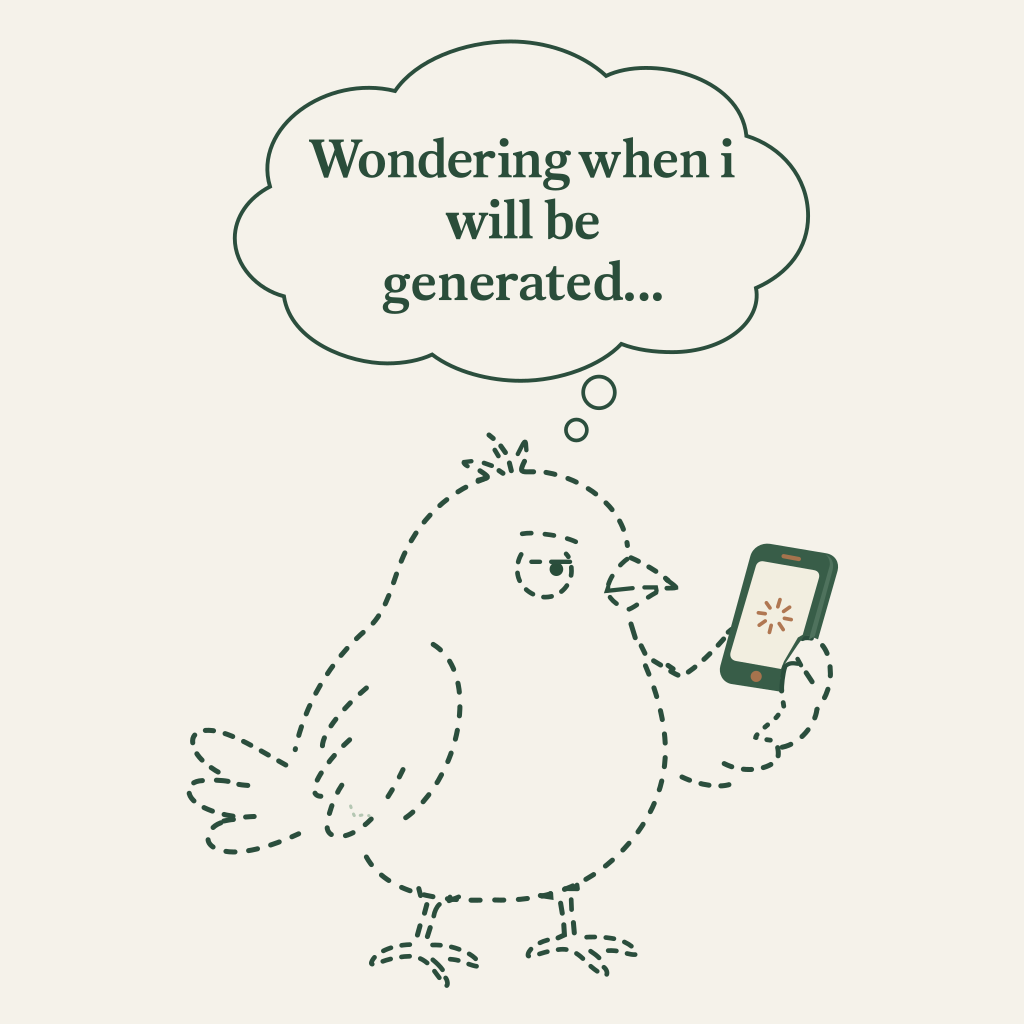
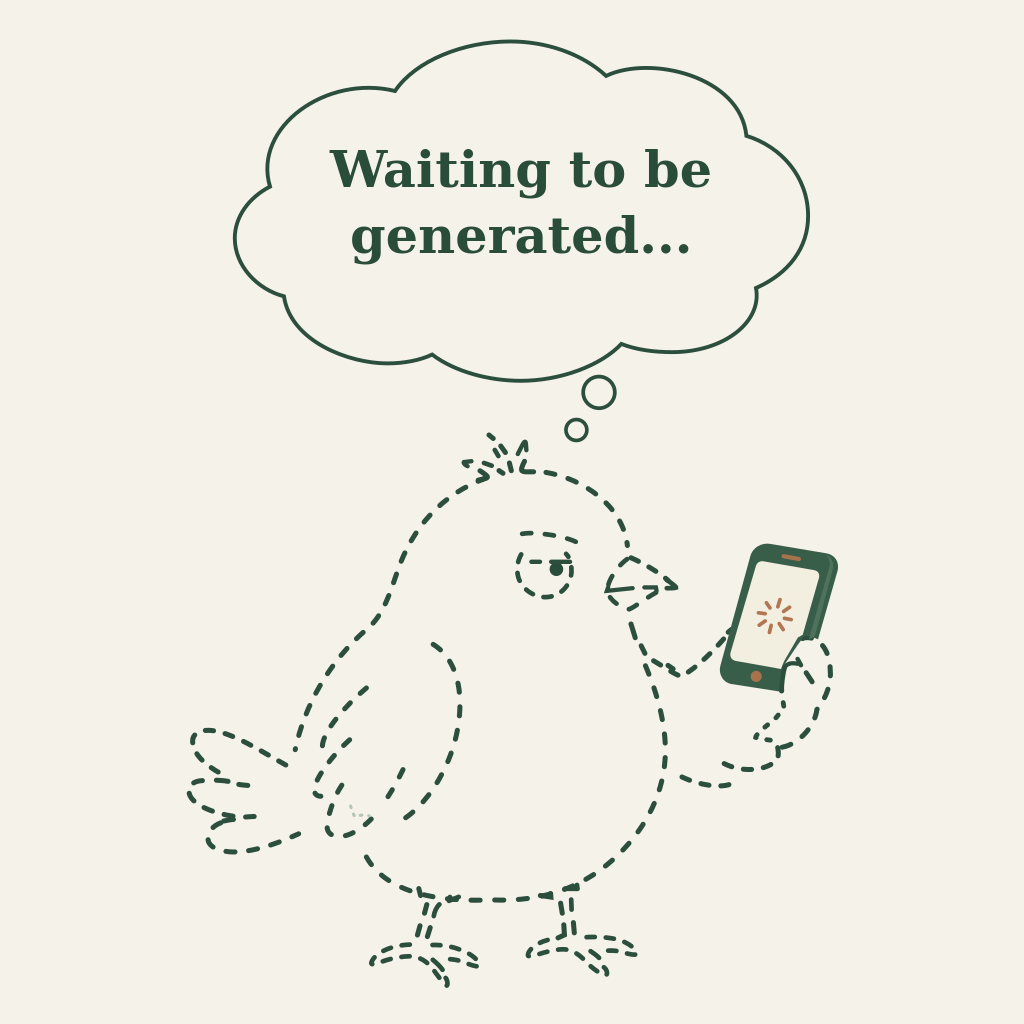
Update home illustration and app UI assets
Replit-Commit-Author: Agent

Changed region(s): [[0.2812, 0.125, 0.7188, 0.3125]]

diff --git a/artifacts/chirrup/app/(tabs)/index.tsx b/artifacts/chirrup/app/(tabs)/index.tsx
@@ -42,7 +42,7 @@ export default function HomeScreen() {
         <Button testID="home-create" label="Create a bird" icon="plus" onPress={() => { tap(); router.navigate('/create'); }} style={{ marginTop: 18 }} />
       </View>
       <Image testID="home-waiting-bird" source={require('../../assets/images/waiting-to-be-generated.png')}
-        accessibilityRole="image" accessibilityLabel="A dashed-outline bird holding a phone and thinking: Wondering when i will be generated..."
+        accessibilityRole="image" accessibilityLabel="A dashed-outline bird holding a phone and thinking: Waiting to be generated..."
         resizeMode="contain" style={[s.waitingBird, { height: illustrationSize, marginTop: illustrationGap }]} />
       <Eyebrow style={{ marginTop: illustrationGap, marginBottom: 10 }}>Where to next</Eyebrow>
       <View style={{ gap: 10 }}>

diff --git a/.agents/memory/home-illustration.md b/.agents/memory/home-illustration.md
@@ -2,8 +2,8 @@
 name: Approved home illustration
 description: Preserve the user-approved dashed-outline bird artwork and proportional spacing
 ---
-The user explicitly approved the humorous home-page illustration: a dashed-outline bird holding a solid mobile phone, with a thought bubble from the bird's head reading “Wondering when i will be generated...”.
+The user explicitly approved the humorous home-page illustration: a dashed-outline bird holding a solid mobile phone, with a thought bubble from the bird's head. The user later requested the caption “Waiting to be generated...”, with the artwork unchanged.
 
 **Why:** The user called the image “GREAT!” and requested only tighter spacing, then confirmed that “the width of the mobile” means the small phone in the drawing, not the screen width.
 
-**How to apply:** Keep the approved artwork, caption, dashed-bird style and placement above “Where to next”. Adjust layout rather than regenerating the image. The gaps above and below the illustration should match one another and roughly equal the illustrated phone's width. Give native raster images an explicit rendered height as well as width: React Native Web's intrinsic asset height can otherwise override an aspect-ratio-only style and reserve excessive space.
+**How to apply:** Keep the approved artwork, caption, dashed-bird style and placement above “Where to next”. Edit only the text area if wording changes; do not regenerate the picture. The gaps above and below the illustration should match one another and roughly equal the illustrated phone's width. Give native raster images an explicit rendered height as well as width: React Native Web's intrinsic asset height can otherwise override an aspect-ratio-only style and reserve excessive space.
